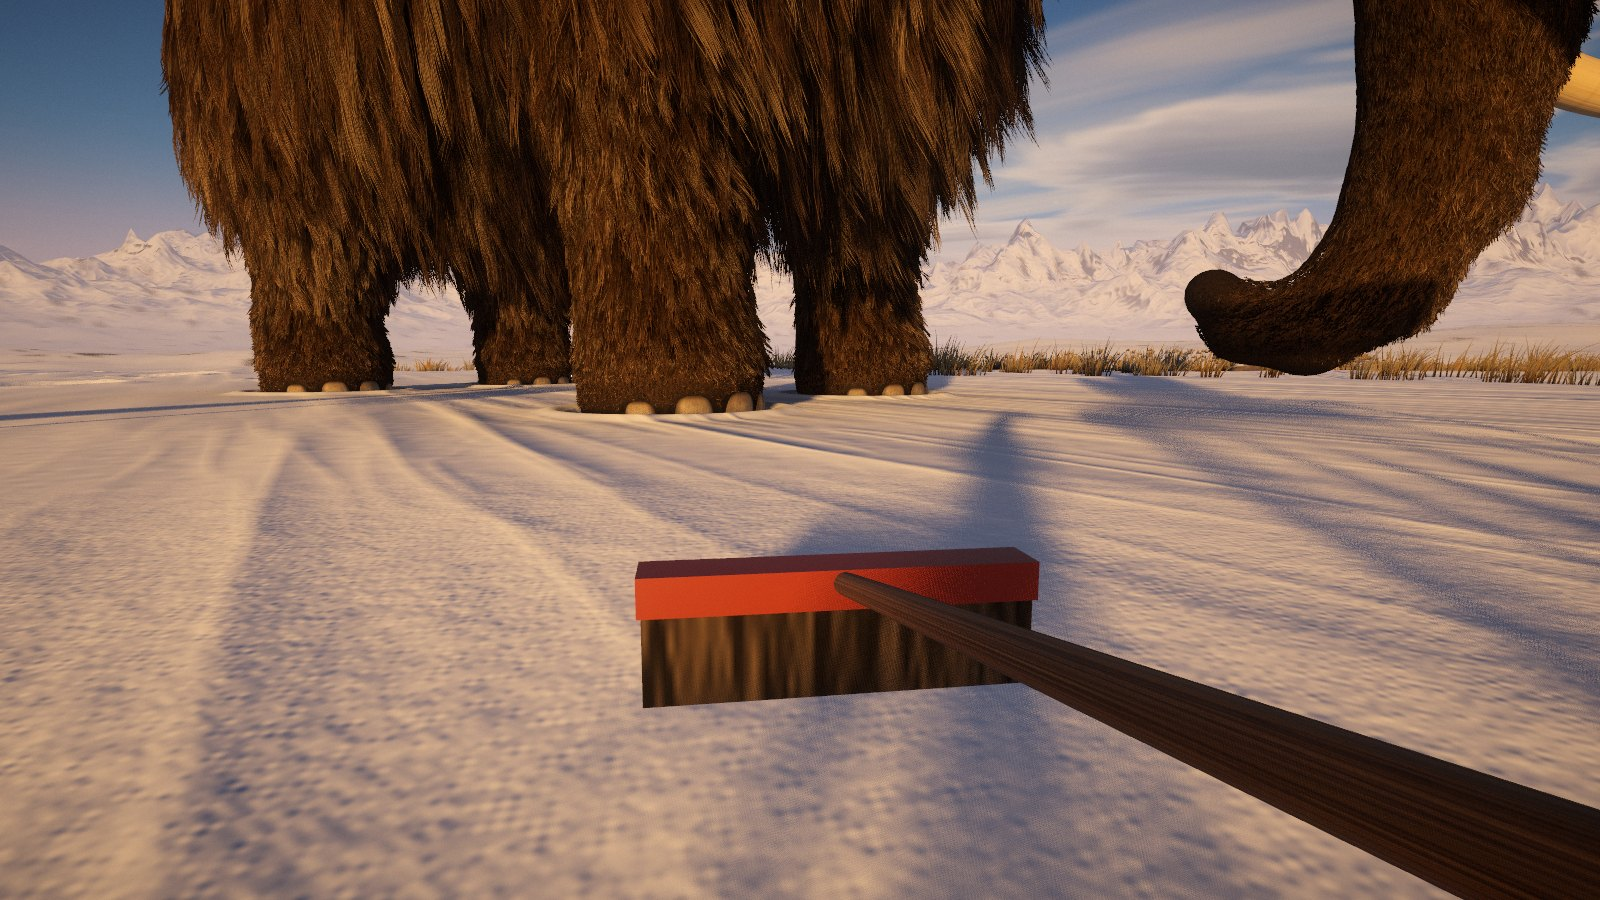
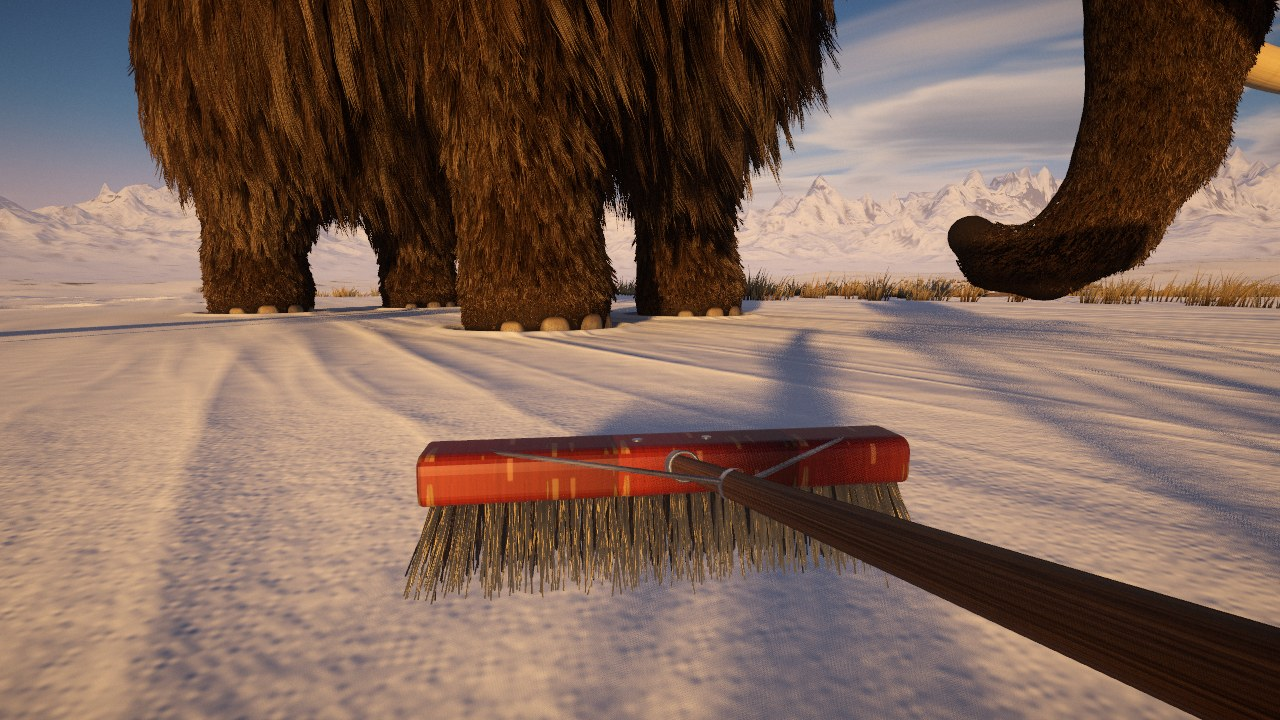
The shop shuts after a purchase; no view bar; Collect hair; a real push broom; a reminder of the lift keys; no Dev button
- Buying anything shuts Gnorman's shop and puts the elf back on the snow with it.
- The bar of views (The mammoth, In profile, Into the sun, The coat) is gone.
- The Q button reads Collect hair.
- The push broom is rebuilt: a chipped painted block, a steel socket plate, collar and wire stays, and about
  1,600 separate bristles in five rows.
- With a ladder or a pack owned and left alone for five seconds, a line in the corner gives its keys.
- The Dev button and its B key are there only when the page is opened with ?dev.

Claude-Session: https://claude.ai/code/session_01BDsvMpvTNq7jPYUs2JzAv5

diff --git a/src/game/tools/sweepers.js b/src/game/tools/sweepers.js
@@ -68,20 +68,150 @@ function buildHands() {
 }
 
 // ---- push broom: a long handle into a wide block of bristle ----
+/** Red paint on a wooden block that has been knocked about: chipped to the wood along its edges, scuffed, and dirty underneath. */
+function paintedWood() {
+  const rnd = rngFrom(412);
+  return canvasTexture(256, 256, (g, w, h) => {
+    g.fillStyle = '#8f2d22'; g.fillRect(0, 0, w, h);
+    for (let i = 0; i < 160; i++) {      // the brush it was painted with, and the grain under it
+      g.strokeStyle = rnd() < 0.5 ? 'rgba(60,14,10,0.12)' : 'rgba(190,80,60,0.08)';
+      g.lineWidth = 0.5 + rnd() * 1.5;
+      const y = rnd() * h;
+      g.beginPath(); g.moveTo(0, y); g.lineTo(w, y + (rnd() - 0.5) * 5); g.stroke();
+    }
+    for (let i = 0; i < 20; i++) {       // chips, down to the wood
+      const x = rnd() * w, y = rnd() < 0.6 ? (rnd() < 0.5 ? rnd() * 22 : h - rnd() * 22) : rnd() * h, r = 1.5 + rnd() * 6;
+      g.fillStyle = `rgb(${150 + rnd() * 40 | 0},${108 + rnd() * 30 | 0},${62 + rnd() * 24 | 0})`;
+      g.beginPath(); g.ellipse(x, y, r * (1 + rnd() * 2), r * 0.6, rnd() * 0.5 - 0.25, 0, 7); g.fill();
+      g.strokeStyle = 'rgba(40,10,6,0.5)'; g.lineWidth = 0.6; g.stroke();
+    }
+    for (let i = 0; i < 30; i++) {       // scratches
+      g.strokeStyle = 'rgba(225,190,160,0.35)'; g.lineWidth = 0.5;
+      const x = rnd() * w, y = rnd() * h;
+      g.beginPath(); g.moveTo(x, y); g.lineTo(x + (rnd() - 0.5) * 50, y + (rnd() - 0.5) * 12); g.stroke();
+    }
+    const dirt = g.createLinearGradient(0, 0, 0, h);
+    dirt.addColorStop(0, 'rgba(20,12,8,0)'); dirt.addColorStop(1, 'rgba(20,12,8,0.35)');
+    g.fillStyle = dirt; g.fillRect(0, 0, w, h);
+  }, true);
+}
+
+/** A thin rod from one point to another. */
+function rod(a, b, radius, around = 8) {
+  const d = new THREE.Vector3(b[0] - a[0], b[1] - a[1], b[2] - a[2]), geo = new THREE.CylinderGeometry(radius, radius, d.length(), around, 1);
+  geo.applyQuaternion(new THREE.Quaternion().setFromUnitVectors(new THREE.Vector3(0, 1, 0), d.clone().normalize()));
+  geo.translate((a[0] + b[0]) / 2, (a[1] + b[1]) / 2, (a[2] + b[2]) / 2);
+  return geo;
+}
+
+/**
+ * The bristles of a push broom, every one of them: five rows of tufts along the block, half a dozen bristles to a
+ * tuft, each a tapered three-sided sliver with a bend in it. The outer rows are stiff pale fibre and lean out; the
+ * ones between are dark, and softer. They are not the same length, and a few have had enough.
+ * @param wide   the length of the block (metres); @param from the underside of the block, where they are set in
+ */
+function bristleGeometry(wide, from, deep) {
+  const rnd = rngFrom(5150), pos = [], nrm = [], col = [], idx = [];
+  const ROWS = 5, tufts = Math.round(wide / 0.0072), PER = 8;
+  const pale = [0.52, 0.4, 0.2], dark = [0.035, 0.028, 0.022];
+  const v = new THREE.Vector3(), axis = new THREE.Vector3(), side = new THREE.Vector3(), up = new THREE.Vector3();
+  for (let r = 0; r < ROWS; r++) {
+    const rk = (r / (ROWS - 1)) * 2 - 1, outer = r === 0 || r === ROWS - 1;
+    for (let t = 0; t < tufts; t++) {
+      const tk = (t / (tufts - 1)) * 2 - 1;
+      const tx = rk * deep * 0.42 + (rnd() - 0.5) * 0.0012, tz = tk * (wide / 2 - 0.004) + (rnd() - 0.5) * 0.0015;
+      for (let k = 0; k < PER; k++) {
+        const stray = rnd() < 0.035;
+        const len = (outer ? 0.05 : 0.046) * (0.88 + rnd() * 0.2) * (stray ? 1.12 : 1);
+        const rootR = (outer ? 0.0013 : 0.0012) * (0.85 + rnd() * 0.3);
+        // where it starts in the tuft, which way it leans (out from the middle of the block, and out past its ends), how it bends
+        const rx = tx + (rnd() - 0.5) * 0.0046, rz = tz + (rnd() - 0.5) * 0.0046;
+        const leanX = rk * 0.24 + (rnd() - 0.5) * 0.16 + (stray ? (rnd() - 0.5) * 0.6 : 0), leanZ = Math.pow(Math.abs(tk), 6) * Math.sign(tk) * 0.3 + (rnd() - 0.5) * 0.14 + (stray ? (rnd() - 0.5) * 0.6 : 0);
+        const bendX = (rnd() - 0.5) * 0.006 + rk * 0.002, bendZ = (rnd() - 0.5) * 0.006;
+        const shade = 0.75 + rnd() * 0.5, base = outer ? pale : (rnd() < 0.08 ? [0.2, 0.15, 0.09] : dark);
+        const at = (u) => [rx + leanX * len * u + bendX * Math.sin(u * Math.PI) * 0.5 + bendX * u * u, from - len * u * Math.sqrt(Math.max(0.05, 1 - (leanX * leanX + leanZ * leanZ) * 0.5)), rz + leanZ * len * u + bendZ * u * u];
+        const first = pos.length / 3, RINGS = 4;
+        for (let i = 0; i < RINGS; i++) {
+          const u = i / (RINGS - 1), p = at(u), q = at(Math.min(1, u + 0.05)), q0 = at(Math.max(0, u - 0.05));
+          axis.set(q[0] - q0[0], q[1] - q0[1], q[2] - q0[2]).normalize();
+          side.set(1, 0, 0).addScaledVector(axis, -axis.x).normalize(); up.crossVectors(axis, side);
+          const rad = rootR * (1 - 0.55 * u), spin = rnd() * 6.28;
+          for (let j = 0; j < 3; j++) {
+            const ang = spin + (j / 3) * Math.PI * 2;
+            v.copy(side).multiplyScalar(Math.cos(ang)).addScaledVector(up, Math.sin(ang));
+            pos.push(p[0] + v.x * rad, p[1] + v.y * rad, p[2] + v.z * rad); nrm.push(v.x, v.y, v.z);
+            // darker where it is set in the block, dusty and split at the tip
+            const tone = shade * (0.55 + 0.6 * u) + (u > 0.8 ? 0.12 : 0);
+            col.push(base[0] * tone + (u > 0.8 ? 0.03 : 0), base[1] * tone + (u > 0.8 ? 0.03 : 0), base[2] * tone + (u > 0.8 ? 0.03 : 0));
+          }
+        }
+        for (let i = 0; i < RINGS - 1; i++) for (let j = 0; j < 3; j++) {
+          const a0 = first + i * 3 + j, a1 = first + i * 3 + (j + 1) % 3, b0 = a0 + 3, b1 = a1 + 3;
+          idx.push(a0, b0, a1, a1, b0, b1);
+        }
+        const tip = first + (RINGS - 1) * 3; idx.push(tip, tip + 1, tip + 2);
+      }
+    }
+  }
+  const geo = new THREE.BufferGeometry();
+  geo.setAttribute('position', new THREE.Float32BufferAttribute(pos, 3));
+  geo.setAttribute('normal', new THREE.Float32BufferAttribute(nrm, 3));
+  geo.setAttribute('color', new THREE.Float32BufferAttribute(col, 3));
+  geo.setAttribute('uv', new THREE.Float32BufferAttribute(new Float32Array((pos.length / 3) * 2), 2));
+  geo.setIndex(idx);
+  return geo;
+}
+
+// ---- push broom: a yard broom. A painted wooden block the length of the elf's arm span and more, set with five rows
+//      of bristles; a steel socket and two wire stays hold the handle to it ----
 function buildPushBroom() {
   const kit = new Kit('push-broom', 0.03);
+  const WIDE = 0.3, DEEP = 0.04, TALL = 0.024;
+  const tex = steelTextures({ seed: 77, tone: '#a9adb2', rust: 0.18 });
   const wood = kit.patch(new THREE.MeshPhysicalMaterial({ map: woodTexture(), roughness: 0.6, metalness: 0, clearcoat: 0.2, clearcoatRoughness: 0.5 }));
-  const paint = kit.patch(new THREE.MeshPhysicalMaterial({ color: 0x8c2f24, roughness: 0.55, metalness: 0, clearcoat: 0.3, clearcoatRoughness: 0.4 }));
-  const hair = kit.patch(new THREE.MeshPhysicalMaterial({ map: bristleTexture('#2a2420', '#0f0c0a', '#6b5a48'), roughness: 0.95, metalness: 0 }));
+  const painted = paintedWood(); painted.repeat.set(3, 9);
+  const paint = kit.patch(new THREE.MeshPhysicalMaterial({ map: painted, roughness: 0.5, metalness: 0, clearcoat: 0.35, clearcoatRoughness: 0.45, bumpMap: painted, bumpScale: 0.25 }));
+  const steel = kit.patch(new THREE.MeshPhysicalMaterial({ map: tex.body, metalness: 0.85, roughness: 0.38, roughnessMap: tex.rough, envMapIntensity: 1 }));
+  const fibre = kit.patch(new THREE.MeshPhysicalMaterial({ vertexColors: true, roughness: 0.82, metalness: 0, sheen: 0.4, sheenRoughness: 0.6, sheenColor: new THREE.Color(0x6b5a48), side: THREE.DoubleSide }));
+  const pitch = kit.patch(new THREE.MeshPhysicalMaterial({ color: 0x0b0806, roughness: 0.95, metalness: 0 }));
   const all = kit.upper;
-  handle(kit, all, wood, -0.07, 0.36, 0.0062);
+  handle(kit, all, wood, -0.07, 0.352, 0.0064);
+  // the head: level on the snow while the handle slopes down to it
   const head = new THREE.Group();
-  head.position.x = 0.37; head.rotation.z = -SLOPE;   // the block lies level when the handle slopes
+  head.position.x = 0.37; head.rotation.z = -SLOPE;
   all.add(head);
-  kit.add(head, new THREE.BoxGeometry(0.03, 0.02, 0.2), paint, 'block');
-  const bristles = kit.add(head, new THREE.BoxGeometry(0.026, 0.045, 0.196), hair, 'bristles');
-  bristles.position.y = -0.032;
-  const samples = [[0.4, -0.02, 0, 0.02], [0.4, -0.02, 0.075, 0.02], [0.4, -0.02, -0.075, 0.02], [0.26, 0, 0, 0.008], [0.12, 0, 0, 0.008]];
+  // the block: a length of timber with its corners taken off
+  const r = 0.0045, outline = new THREE.Shape();
+  outline.moveTo(-DEEP / 2 + r, -TALL / 2); outline.lineTo(DEEP / 2 - r, -TALL / 2); outline.quadraticCurveTo(DEEP / 2, -TALL / 2, DEEP / 2, -TALL / 2 + r);
+  outline.lineTo(DEEP / 2, TALL / 2 - r * 1.6); outline.quadraticCurveTo(DEEP / 2, TALL / 2, DEEP / 2 - r * 1.6, TALL / 2);
+  outline.lineTo(-DEEP / 2 + r * 1.6, TALL / 2); outline.quadraticCurveTo(-DEEP / 2, TALL / 2, -DEEP / 2, TALL / 2 - r * 1.6);
+  outline.lineTo(-DEEP / 2, -TALL / 2 + r); outline.quadraticCurveTo(-DEEP / 2, -TALL / 2, -DEEP / 2 + r, -TALL / 2);
+  const block = new THREE.ExtrudeGeometry(outline, { depth: WIDE - 0.006, bevelEnabled: true, bevelSize: 0.003, bevelThickness: 0.003, bevelSegments: 3, curveSegments: 6 });
+  block.translate(0, 0, -(WIDE - 0.006) / 2);
+  kit.add(head, block, paint, 'block');
+  // what the bristles are set in, and the bristles
+  kit.add(head, new THREE.BoxGeometry(DEEP * 0.88, 0.004, WIDE - 0.012), pitch, 'setting').position.y = -TALL / 2 - 0.001;
+  kit.add(head, bristleGeometry(WIDE - 0.012, -TALL / 2, DEEP), fibre, 'bristles');
+  // the socket the handle screws into: a steel plate on top of the block, bolted through, with a collar standing up from it
+  kit.add(head, new THREE.BoxGeometry(0.03, 0.0016, 0.058), steel, 'plate').position.set(-0.002, TALL / 2 + 0.0008, 0);
+  for (const z of [-0.022, 0.022]) {
+    const bolt = kit.add(head, new THREE.CylinderGeometry(0.0034, 0.0034, 0.0024, 6), steel, 'bolt');
+    bolt.position.set(-0.002, TALL / 2 + 0.0028, z);
+  }
+  const collar = kit.add(all, new THREE.CylinderGeometry(0.0082, 0.0092, 0.034, 16, 1, true), steel, 'collar');
+  collar.rotation.z = -Math.PI / 2; collar.position.x = 0.349;
+  const rim = kit.add(all, new THREE.TorusGeometry(0.0084, 0.0011, 6, 18), steel, 'collar-rim');
+  rim.rotation.y = Math.PI / 2; rim.position.x = 0.332;
+  // two wire stays from the handle out to the ends of the block (the head's own frame, turned into the handle's)
+  const cs = Math.cos(-SLOPE), sn = Math.sin(-SLOPE), onHandle = (x, y, z) => [0.37 + x * cs - y * sn, x * sn + y * cs, z];
+  for (const side of [-1, 1]) {
+    kit.add(all, rod([0.235, side * 0.0052, 0].map((c, i) => (i === 2 ? side * 0.0062 : i === 1 ? 0.002 : c)), onHandle(-0.004, TALL / 2 + 0.001, side * (WIDE / 2 - 0.035)), 0.0013), steel, 'stay');
+    const eye = kit.add(head, new THREE.CylinderGeometry(0.003, 0.003, 0.002, 6), steel, 'stay-screw');
+    eye.position.set(-0.004, TALL / 2 + 0.001, side * (WIDE / 2 - 0.035));
+  }
+  const clip = kit.add(all, new THREE.CylinderGeometry(0.0072, 0.0072, 0.006, 14, 1, true), steel, 'stay-clip');
+  clip.rotation.z = -Math.PI / 2; clip.position.x = 0.235;
+  const samples = [[0.4, -0.02, 0, 0.022], [0.4, -0.02, 0.07, 0.022], [0.4, -0.02, -0.07, 0.022], [0.4, -0.02, 0.13, 0.02], [0.4, -0.02, -0.13, 0.02], [0.26, 0, 0, 0.008], [0.12, 0, 0, 0.008]];
   return sweeper('push', kit, {
     tip: 0.4, samples, voice: 'broom', nearer: 0.03, level: true,
     hold: { pos: [0.065, -0.085, -0.03], tilt: SLOPE, yaw: (-8 * Math.PI) / 180, roll: 0, sway: 0.8 },

diff --git a/src/game/game.js b/src/game/game.js
@@ -229,6 +229,9 @@ export class Game {
       }
       if (item.kind === 'ladder') this.tell = `<strong>${item.name}.</strong> <span class="desk">Press <kbd>R</kbd> to stand it up where you are and climb; <kbd>F</kbd> comes down, <kbd>A</kbd> and <kbd>D</kbd> walk it sideways.</span><span class="nomouse">Hold Up to stand it where you are and climb.</span> He is taller than it is.`;
       if (item.kind === 'pack') this.tell = `<strong>${item.name}.</strong> <span class="desk">Hold <kbd>R</kbd> or the right mouse button to burn.</span><span class="nomouse">Hold Up to burn.</span> It fills up again on the ground. You can land on him.${this.state.climber ? ' <span class="desk"><kbd>T</kbd> swaps back to the ladder.</span>' : ''}`;
+      // (and that is the shop shut: whatever was bought, he is back on the snow with it, and what wants explaining is
+      // explained on the way out)
+      if (this.dialog) this.close();
     }
   }
 
@@ -255,7 +258,7 @@ export class Game {
     else if (r < 0.82) { const g = 30 + Math.floor(Math.random() * 41); s.earn(g); this.said = `${g} gold! Somebody’s purse. Finders keepers. Do not look at the initials.`; }
     else if (r < 0.94) { const got = s.pick(100); this.said = `Hair! ${Math.round(got)} grams of it. Not his. Do not ask whose.`; }
     else { s.earn(250); this.said = 'TWO HUNDRED AND FIFTY GOLD. I did not know that was in there. I want it noted that I did not know.'; }
-    this.fillDialog();
+    this.tell = `<strong>Mystery box.</strong> ${this.said}`;
   }
 
   /** Bald. The legend is fulfilled; say so, and ask what next. */
@@ -357,7 +360,7 @@ export class Game {
     for (const b of document.querySelectorAll('[data-tool]')) {
       const id = b.dataset.tool;
       if (id === 'sweep') {
-        b.lastChild.textContent = ITEMS[s.sweeper].name;
+        b.lastChild.textContent = 'Collect hair';          // (with whatever he has for it: hands, a broom, a vacuum)
         b.setAttribute('aria-pressed', String(!!this.shaving.tools[now].def.sweep));
       } else if (id === 'gag') {
         // (one button for all the novelties: it names the one in hand, or says how many there are to take out)
@@ -599,10 +602,33 @@ export class Game {
     const cl = document.body.classList, finale = $('finale');
     this.says.update(dt, { elf, busy: !!this.dialog || playing || !!(finale && !finale.hidden), seen: cl.contains('told') && !cl.contains('bare') });
     this.guide(dt, elf);
+    this.liftKeys(dt, elf);
 
     // keep the haircut: it is the one thing that cannot be bought back (well, it can, for 150 gold)
     this.saveIn -= dt;
     if (this.saveIn <= 0) { this.saveIn = 5; this.save(false); }
+  }
+
+  /**
+   * A reminder, in the corner, of the keys for the ladder or the pack: shown when he has one and has not touched it for
+   * a few seconds, gone the moment he does.
+   */
+  liftKeys(dt, elf) {
+    const el = this._liftEl === undefined ? (this._liftEl = $('lift-keys')) : this._liftEl;
+    if (!el) return;
+    const rig = this.rig, lift = rig.lift, s = this.state;
+    const using = !!rig.ladder || rig.height > 0.02 || rig.thrusting || rig.keys.has('KeyR') || rig.keys.has('KeyF');
+    this.liftIdle = using || !lift ? 0 : (this.liftIdle || 0) + dt;
+    const show = elf && !!lift && this.liftIdle > 5 && !this.dialog && !(this.hero && this.hero.playing) && !this.raid.playing;
+    if (lift) {
+      const both = !!(s.climber && s.pack), what = `${lift.kind}${both ? '+' : ''}`;
+      if (el.dataset.what !== what) {
+        el.dataset.what = what;
+        el.innerHTML = (lift.kind === 'pack' ? '<kbd>R</kbd>fly<i>·</i><kbd>F</kbd>down' : '<kbd>R</kbd>climb<i>·</i><kbd>F</kbd>down')
+          + (both ? `<i>·</i><kbd>T</kbd>${lift.kind === 'pack' ? 'ladder' : 'jet pack'}` : '');
+      }
+    } else if (el.dataset.what) { el.dataset.what = ''; el.textContent = ''; }
+    el.classList.toggle('show', show);
   }
 
   /** A word of advice, once each, when it is first needed: how the hair turns into gold and the gold into tools. */

diff --git a/index.html b/index.html
@@ -295,6 +295,17 @@
   #fuel i { display: block; height: 100%; background: linear-gradient(180deg, #fff1c4, var(--brass) 55%); transform-origin: left center; }
   #fuel.low i { background: var(--warn); }
   body:not(.elf) #fuel { display: none; }
+  /* a reminder of the keys for the ladder or the pack, when he has one and has left it alone for a few seconds */
+  #lift-keys {
+    font-weight: 600; font-size: 0.9rem; line-height: 1.2; color: var(--thread-dim); white-space: nowrap;
+    background: rgba(15, 12, 10, 0.5); border: 1px solid var(--felt-lo); border-radius: 4px; padding: 3px 10px 4px;
+    opacity: 0; transition: opacity 0.6s ease;
+  }
+  #lift-keys.show { opacity: 1; }
+  #lift-keys:empty, body:not(.elf) #lift-keys { display: none; }
+  #lift-keys kbd { margin-right: 0.3em; }
+  #lift-keys i { font-style: normal; margin: 0 0.5em; color: var(--thread-faint); }
+  @media (hover: none) { #lift-keys { display: none; } }     /* (by touch there are buttons for it) */
   /* by touch, a ladder or a pack brings two more buttons */
   .touch #rise, .touch #sink { display: none; }
   body.lift .touch #rise, body.lift .touch #sink { display: block; }
@@ -491,6 +502,7 @@
       <div id="purse" hidden><span id="gold">0 gold</span><span id="bag">0 g of hair</span></div>
       <button type="button" id="dev-gold" title="Dev: puts enough gold in the purse to buy everything on Gnorman’s list" hidden><kbd class="desk">B</kbd>Dev: gold for everything</button>
       <div id="fuel" role="img" aria-label="What is left in the tank" hidden><i></i></div>
+      <div id="lift-keys" aria-live="off"></div>
       <div id="progress" hidden>Shorn 0.000%</div>
       <div id="stats" hidden></div>
     </div>
@@ -505,12 +517,6 @@
       <button type="button" id="sink" aria-label="Hold to come down">Down</button>
     </div>
     <div class="bottom">
-      <div class="panel views" role="group" aria-label="Views">
-        <button type="button" id="view-0" data-view="0" aria-pressed="true">The mammoth</button>
-        <button type="button" id="view-1" data-view="1" aria-pressed="false">In profile</button>
-        <button type="button" id="view-2" data-view="2" aria-pressed="false">Into the sun</button>
-        <button type="button" id="view-3" data-view="3" aria-pressed="false">The coat</button>
-      </div>
       <div class="panel settings">
         <label for="sun">Sun
           <input type="range" id="sun" min="2" max="30" step="0.5" value="6.5" aria-label="Height of the sun above the horizon">
@@ -533,7 +539,7 @@
         <button type="button" id="tool-garden" data-tool="garden" aria-pressed="true"><kbd>3</kbd>Garden clippers</button>
         <button type="button" id="tool-electric" data-tool="electric" aria-pressed="false"><kbd>4</kbd>Electric shears</button>
         <button type="button" id="tool-shaver" data-tool="shaver" aria-pressed="false"><kbd>5</kbd>Beard shaver</button>
-        <button type="button" id="tool-sweep" data-tool="sweep" aria-pressed="false" title="Pick up the hair you have cut"><kbd>Q</kbd><span>Bare hands</span></button>
+        <button type="button" id="tool-sweep" data-tool="sweep" aria-pressed="false" title="Pick up the hair you have cut"><kbd>Q</kbd><span>Collect hair</span></button>
         <button type="button" id="tool-gag" data-tool="gag" aria-pressed="false" title="Take out a novelty" hidden><kbd>G</kbd><span>Novelties</span></button>
       </div>
       <button type="button" id="view-elf" class="start" aria-pressed="false">Start shaving</button>

diff --git a/src/main.js b/src/main.js
@@ -561,7 +561,7 @@ async function start() {
   const dressFrom = performance.now();
   game = new Game({
     scene, terrain, mammoth, shaving, rig, sound, hint: showHint, storage: !shot && !q.has('nosave'), baked,
-    dev: { unlock: shot || q.has('unlock'), gold: q.has('gold') ? num('gold', 0) : null, fresh: shot || q.has('fresh'), noscene: q.has('noscene'), tools: !(shot || q.has('nodev')), helpers: q.has('helpers') ? num('helpers', 0) : null },
+    dev: { unlock: shot || q.has('unlock'), gold: q.has('gold') ? num('gold', 0) : null, fresh: shot || q.has('fresh'), noscene: q.has('noscene'), tools: q.has('dev') && !shot, helpers: q.has('helpers') ? num('helpers', 0) : null },
   });
   // the elf himself: seen from outside before the shaving starts, and whenever he has something new to show off
   hero = new Hero({ scene, camera, rig, shaving, terrain, mammoth, sound, baked: baked.elf });

diff --git a/README.md b/README.md
@@ -167,17 +167,17 @@ Then open the address Vite prints (http://localhost:5173 by default).
 | Left mouse, or `Space` | Cut. Hold to keep cutting (an electric tool runs for as long as it is held). With a broom or a vacuum in hand, gather |
 | `W A S D`, `Shift`, mouse | Walk, run, look |
 | `1` to `4`, the mouse wheel, or the tool buttons | The cutting tools you own |
-| `Q` | Swap between cutting and picking up |
+| `Q`, or the **Collect hair** button | Swap between cutting and picking up |
 | `G` | Take out a novelty (again: the next one; after the last, the tool you were using). Point it where the label under the ring says, and hold the cut button |
-| `E` | Talk to Gnorman or Mortimer when standing at their stalls (`E` or `Esc` leaves) |
+| `E` | Talk to Gnorman or Mortimer when standing at their stalls (`E` or `Esc` leaves). Buying anything shuts Gnorman's shop and puts you back on the snow with it |
 | `R`, or the right mouse button | Up: stand the ladder where you are and climb it, or burn the jet pack |
 | `F` | Down. At the bottom of the ladder, puts it away |
 | `A` `D` on a ladder | Walk the ladder sideways |
-| `T` | With a ladder and a pack both, change which of them `R` works |
+| `T` | With a ladder and a pack both, change which of them `R` works. (A line in the corner reminds you of these keys when you have a ladder or a pack and have left it alone for five seconds) |
 | `M` | Sound on or off |
-| `B`, or the **Dev** button beside the purse and at the foot of either trader's list | For trying things out, and no part of the game: tops the purse up to enough gold for everything Gnorman sells (about 24,000 to begin with). It is not counted as earned |
+| `B`, or the **Dev** button (only when the page is opened with `?dev`) | For trying things out, and no part of the game: tops the purse up to enough gold for everything Gnorman sells (about 18,000 to begin with). It is not counted as earned |
 | Drag / scroll | Orbit and zoom (when not shaving) |
-| `1` `2` `3` `4` (when not shaving) | The mammoth, in profile, into the sun, the coat |
+| `1` `2` `3` `4` (when not shaving) | Four views of him: the whole mammoth, in profile, into the sun, the coat close up |
 | `H` | Hide or show the controls |
 | `P` | The numbers: frame rate and the rate being aimed for, how long a frame takes the script and (where the browser will say) the graphics card, resolution, hairs and triangles drawn, how far the detail has been turned down, and which graphics card is in use |
 | Sun slider, Detail menu | Height of the sun; Low, Medium, High, Ultra |
@@ -353,7 +353,7 @@ Settings > System > Display > Graphics.
   it, because without a graphics card frames are queued faster than they are drawn), `bare`
   (leave the land undrawn: most of what makes a frame slow without a graphics card),
   `debug` (exposes the game as `window.__game`), `unlock` (own everything, and no scenes; stills
-  always do), `gold=n`, `fresh` (ignore a kept game), `nosave` (keep nothing), `noscene`, `nodev` (no Dev button; stills never have it),
+  always do), `gold=n`, `fresh` (ignore a kept game), `nosave` (keep nothing), `noscene`, `dev` (the Dev button and its `B` key, which are otherwise not there),
   `scene=<tool>` with `st=<seconds>` (the scene for getting that tool, stopped at that moment),
   `lift=<ladder or pack>` with `up=<metres>` (start that far off the snow on it), `bald` (the
   whole coat off at once), `shave=x,y,z,r` (the coat off within r of a point; several separated
